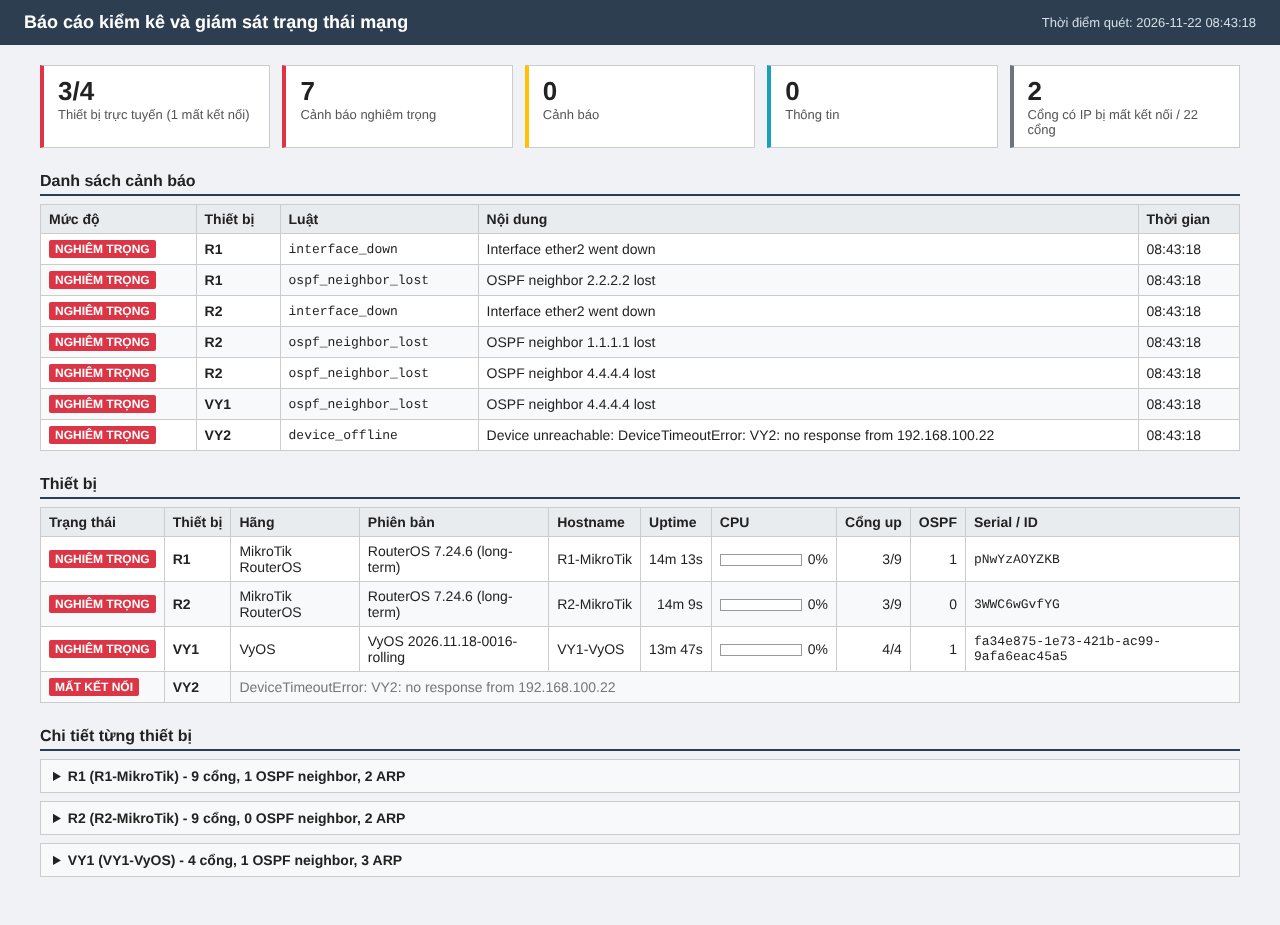
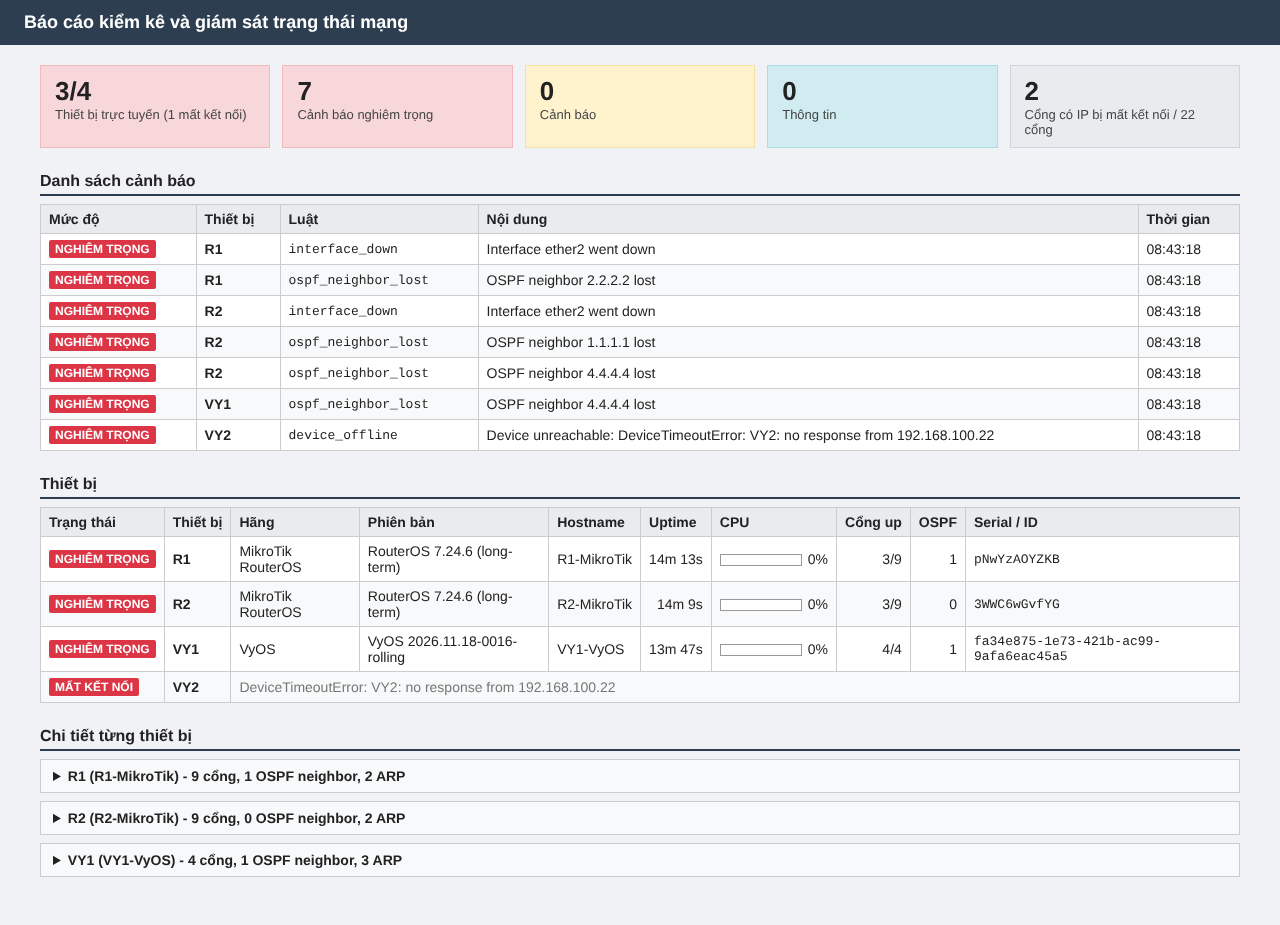
demo: re-render dashboard with the updated layout

Changed region(s): [[0.0312, 0.0605, 0.9375, 0.1816], [0.8125, 0.0, 0.9688, 0.0303]]

diff --git a/demo/report/report_su_co.html b/demo/report/report_su_co.html
@@ -3,20 +3,19 @@
 <head>
 <meta charset="utf-8">
 <meta name="viewport" content="width=device-width, initial-scale=1">
-<title>Báo cáo giám sát mạng - 2026-11-22 08:43:18</title>
+<title>Báo cáo giám sát mạng</title>
 <style>
   body { margin: 0; background: #f0f2f5; color: #222; font-family: Arial, Helvetica, sans-serif; font-size: 14px; }
-  .topbar { background: #2c3e50; color: #fff; padding: 12px 24px; display: flex; justify-content: space-between; align-items: center; }
+  .topbar { background: #2c3e50; color: #fff; padding: 12px 24px; }
   .topbar h1 { font-size: 18px; margin: 0; font-weight: bold; }
-  .topbar .time { font-size: 13px; color: #d5dde5; }
   .container { max-width: 1200px; margin: 0 auto; padding: 20px 24px 40px; }
   h2 { font-size: 16px; margin: 24px 0 8px; padding-bottom: 4px; border-bottom: 2px solid #2c3e50; }
   .summary { display: flex; gap: 12px; flex-wrap: wrap; }
-  .box { flex: 1; min-width: 180px; background: #fff; border: 1px solid #ccc; border-left: 4px solid #6c757d; padding: 10px 14px; }
-  .box.ok { border-left-color: #28a745; } .box.crit { border-left-color: #dc3545; }
-  .box.warn { border-left-color: #ffc107; } .box.info { border-left-color: #17a2b8; }
+  .box { flex: 1; min-width: 180px; background: #e9ecef; border: 1px solid #ced4da; padding: 10px 14px; }
+  .box.ok { background: #d4edda; border-color: #b7dfc0; } .box.crit { background: #f8d7da; border-color: #f1b8bd; }
+  .box.warn { background: #fff3cd; border-color: #f5e1a4; } .box.info { background: #d1ecf1; border-color: #abdde5; }
   .box .num { font-size: 26px; font-weight: bold; }
-  .box .lbl { color: #555; font-size: 13px; }
+  .box .lbl { color: #444; font-size: 13px; }
   table { width: 100%; border-collapse: collapse; background: #fff; }
   th, td { border: 1px solid #ccc; padding: 6px 8px; text-align: left; vertical-align: middle; }
   th { background: #e9ecef; font-weight: bold; white-space: nowrap; }
@@ -41,7 +40,6 @@
 <body>
 <div class="topbar">
   <h1>Báo cáo kiểm kê và giám sát trạng thái mạng</h1>
-  <div class="time">Thời điểm quét: 2026-11-22 08:43:18</div>
 </div>
 
 <div class="container">
